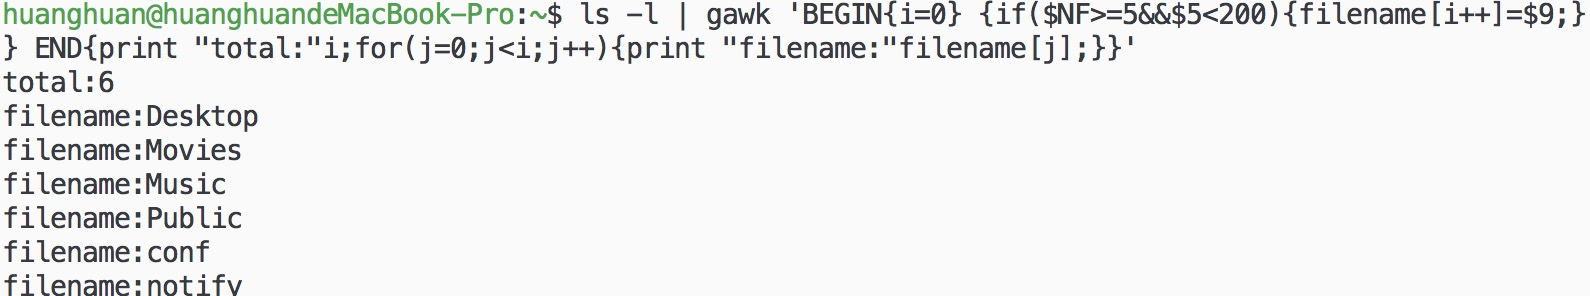
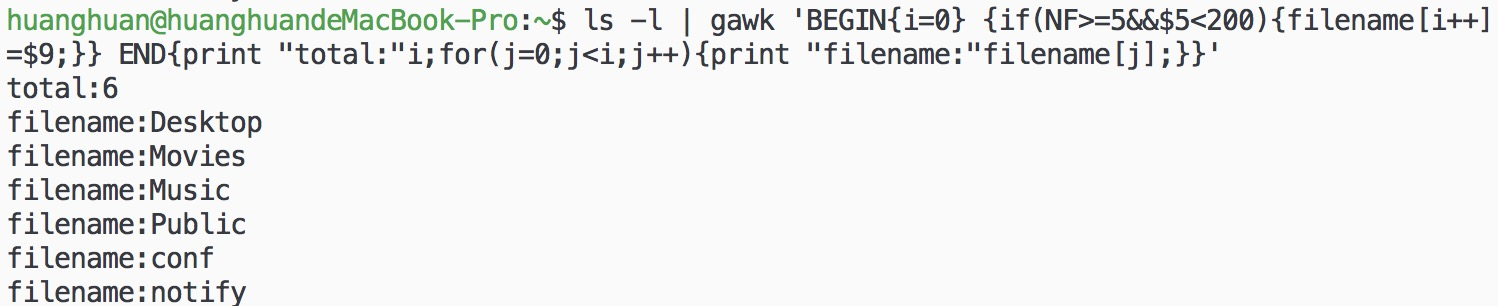
2016-03-12-12-18

Changed region(s): [[0.0, 0.0, 1.0, 0.5473], [0.0, 0.5777, 0.1842, 0.8818], [0.0, 0.9122, 0.1842, 1.0]]

diff --git a/_site/linux/2016/03/10/Linux命令学习-Part-Eight.html b/_site/linux/2016/03/10/Linux命令学习-Part-Eight.html
@@ -305,8 +305,7 @@ gsed -e '1d' -e '1i测试行'  testSed
 <h3 id="awk-2">awk内置变量</h3>
 
 <ul>
-  <li><code class="highlighter-rouge">0</code> 表示当前行所有内容</li>
-  <li><code class="highlighter-rouge">n</code> 第n个域的内容</li>
+  <li><code class="highlighter-rouge">0</code> 表示当前行所有内容，<code class="highlighter-rouge">n</code> 第n个域的内容，用<code class="highlighter-rouge">$</code>取值</li>
   <li><code class="highlighter-rouge">ARGC</code> 命令行参数个数</li>
   <li><code class="highlighter-rouge">ARGV</code> 命令行参数排列</li>
   <li><code class="highlighter-rouge">ENVIRON</code> 支持队列中系统的环境变量使用</li>
@@ -317,8 +316,7 @@ gsed -e '1d' -e '1i测试行'  testSed
   <li><code class="highlighter-rouge">NR</code> 已经读取的记录个数</li>
   <li><code class="highlighter-rouge">OFS</code> 输出域分隔符</li>
   <li><code class="highlighter-rouge">ORS</code> 输出记录分隔符</li>
-  <li><code class="highlighter-rouge">RS</code> 控制记录分隔符
-变量用<code class="highlighter-rouge">$</code>取值，比如<code class="highlighter-rouge">$0,$1</code></li>
+  <li><code class="highlighter-rouge">RS</code> 控制记录分隔符</li>
 </ul>
 
 <h3 id="awk-3">awk内置函数</h3>
@@ -384,7 +382,7 @@ gsed -e '1d' -e '1i测试行'  testSed
 
 <p>6. 输出文件夹下大小小于200B的文件名称：</p>
 
-<div class="highlighter-rouge"><pre class="highlight"><code>ls -l | gawk 'BEGIN{i=0} {if($NF&gt;=5&amp;&amp;$5&lt;200){filename[i++]=$9;}} END{print "total:"i;for(j=0;j&lt;i;j++){print "filename:"filename[j];}}'
+<div class="highlighter-rouge"><pre class="highlight"><code>ls -l | gawk 'BEGIN{i=0} {if(NF&gt;=5&amp;&amp;$5&lt;200){filename[i++]=$9;}} END{print "total:"i;for(j=0;j&lt;i;j++){print "filename:"filename[j];}}'
 </code></pre>
 </div>
 
@@ -394,7 +392,7 @@ gsed -e '1d' -e '1i测试行'  testSed
 
 <p>7. 调用自定义函数实现范例6中的功能：</p>
 
-<div class="highlighter-rouge"><pre class="highlight"><code>ls -l | gawk 'function check(total,size){if(total&gt;=5&amp;&amp;size&lt;200){return 1;} return 0;} BEGIN{i=0} {if(check($NF,$5)){filename[i++]=$9;}} END{print "total:"i;for(j=0;j&lt;i;j++){print "filename:"filename[j];}}'
+<div class="highlighter-rouge"><pre class="highlight"><code>ls -l | gawk 'function check(total,size){if(total&gt;=5&amp;&amp;size&lt;200){return 1;} return 0;} BEGIN{i=0} {if(check(NF,$5)){filename[i++]=$9;}} END{print "total:"i;for(j=0;j&lt;i;j++){print "filename:"filename[j];}}'
 </code></pre>
 </div>
 
